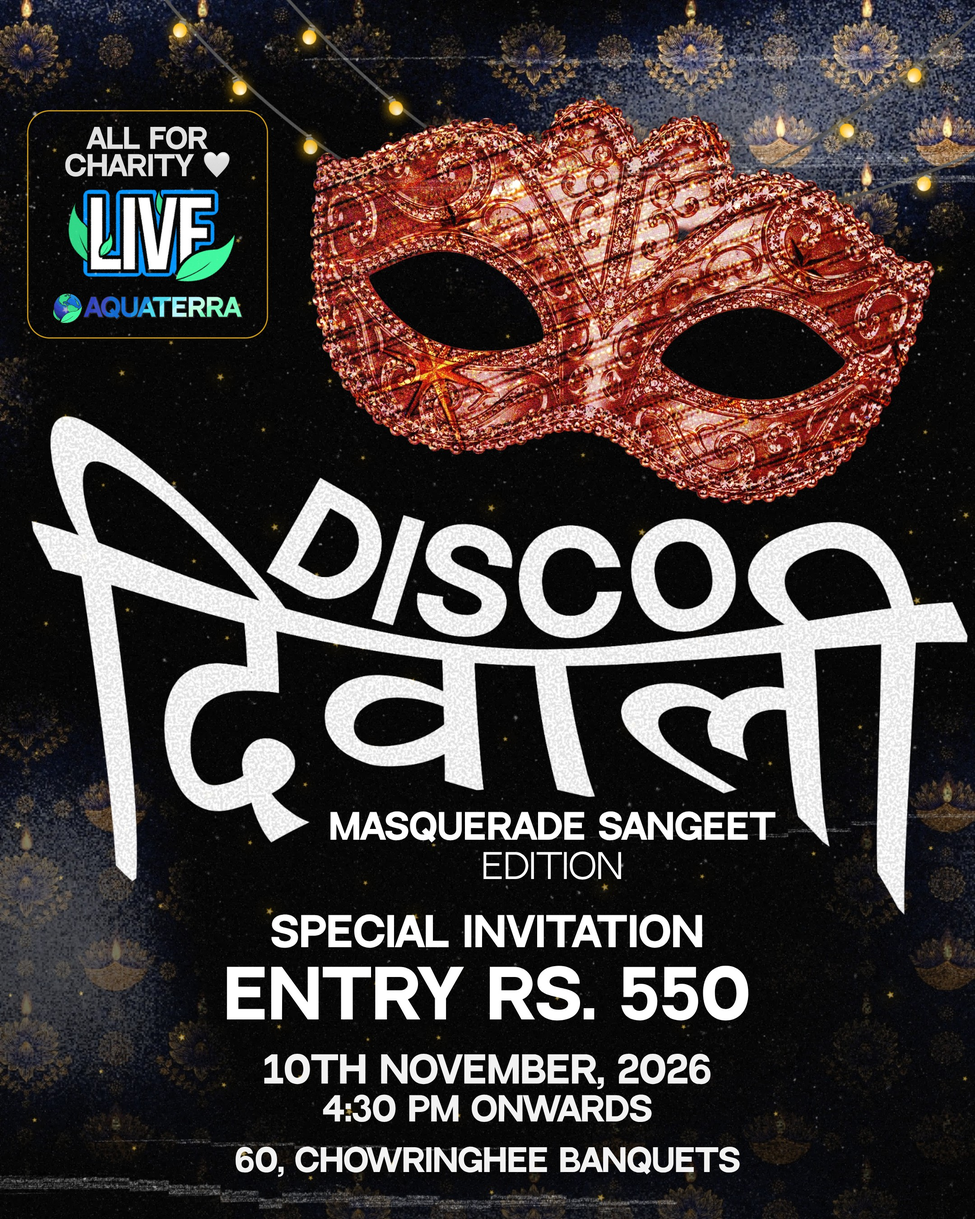
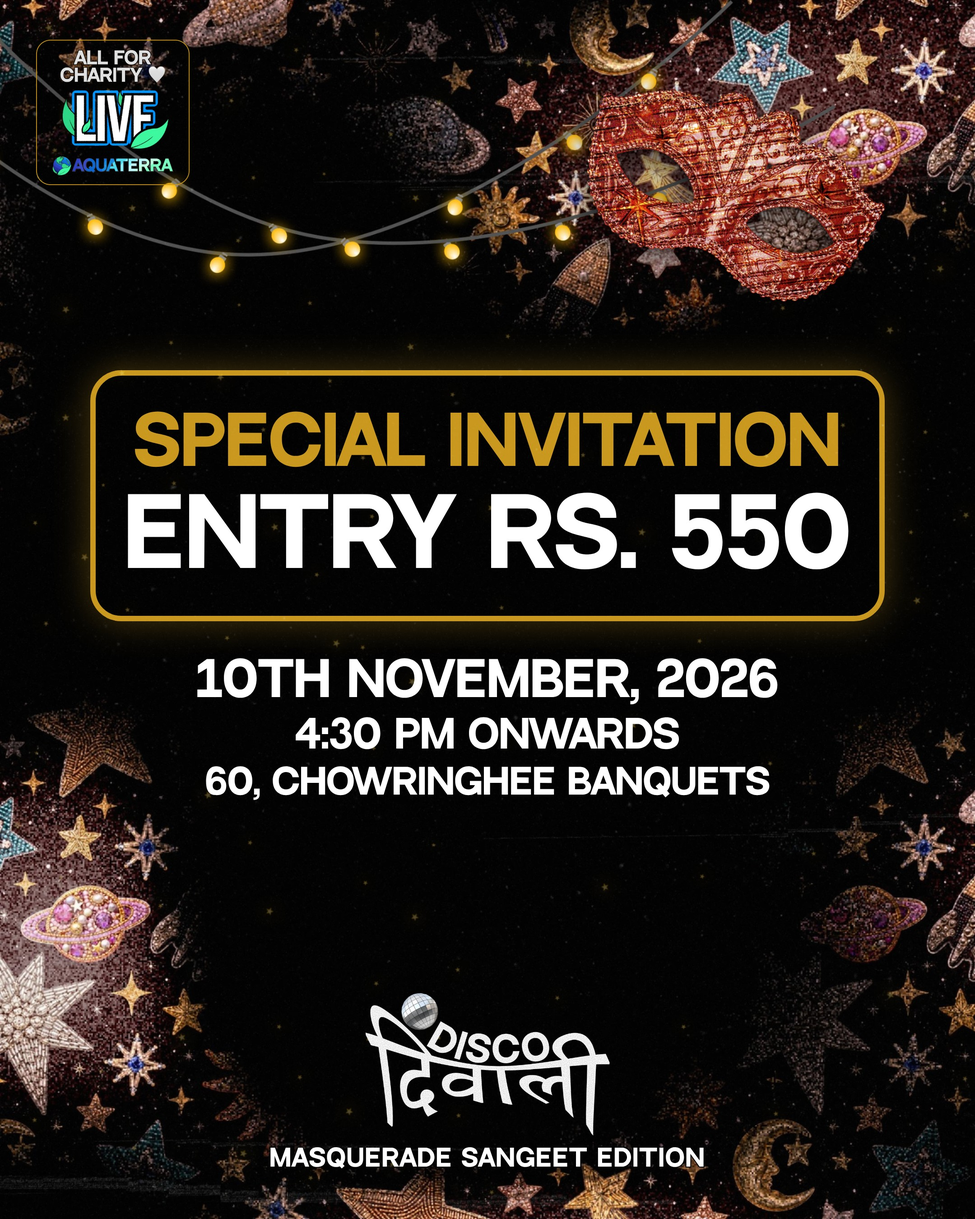
Special invitation poster v2: invitation + fee highlighted in a gold panel, Disco Diwali title shrunk to the footer
Claude-Session: https://claude.ai/code/session_01Hjb3YdETYzUX9KQBuy3LJ5

diff --git a/scratchpad/dd_invite2.py b/scratchpad/dd_invite2.py
@@ -1,0 +1,55 @@
+"""DISCO DIWALI "SPECIAL INVITATION" v2 (user, 2026-11-07: 'SPECIAL INVITATION and Rs.550 highlighted, reduce the Disco Diwali text and place it at the footer').
+The invitation line and the fee are the hero: a gold-framed panel, SPECIAL INVITATION in gold, ENTRY RS. 550 huge in white, both measured to fill the panel. The date, time and venue sit
+under the panel. The lockup (with ball) is shrunk to a footer mark with the edition line beneath it. Built on the Sign primitives (beaded celestial ground, string lights, LIVE badge,
+copper mask) at feed 1080x1350 and story 1080x1920 (top 200 and bottom 250 clear for Instagram's bars). Supplied facts only: 10th November 2026, 4:30 PM onwards, 60 Chowringhee
+Banquets, Rs. 550 entry. Run: PYTHONIOENCODING=utf-8 python scratchpad/dd_invite2.py -> out/discodiwali/invite2/{feed,story}.png"""
+import asyncio, os, sys
+sys.path.insert(0, os.path.dirname(os.path.abspath(__file__)))
+import dd_a3_event_signs as E   # noqa: E402
+dd, B, Sign, GOLD = E.dd, E.B, E.Sign, E.GOLD
+OUT = os.path.join(E.ROOT, "out", "discodiwali", "invite2")
+FEE = os.environ.get("FEE", "Entry Rs. 550")
+W = 1080
+
+
+async def fit(text, width, cap):
+    m = await B.measure_text([dict(text=text.upper(), font="d", size=100, weight=700)], W=W, H=1350)
+    return min(cap, int(100 * width / m[0]["text_w"]))
+
+
+async def build(H):
+    story = H > 1350
+    s = Sign(W, H)
+    top = 210 if story else 44
+    s.parts.append(f'<img data-tag="badge" src="{dd.uri("live_badge.png")}" style="position:absolute;left:40px;top:{top}px;width:170px;z-index:20">')
+    s.els.append(("badge", 40, top, 170, round(170 * 1005 / 1061)))
+    s.mask(610, top + 8, 400, 12)
+    pw = 880; px = (W - pw) // 2
+    f1 = await fit("Special invitation", pw - 90, 120); f2 = await fit(FEE, pw - 70, 230)
+    pad = 44; gap = 16
+    ph = pad + f1 + gap + f2 + pad
+    py = (700 if story else 410)
+    s.add("panel", px, py, pw, ph, f'<div style="height:{ph}px;border-radius:34px;border:6px solid {GOLD};box-sizing:border-box;background:rgba(0,0,0,.62);box-shadow:0 0 40px rgba(201,151,28,.35),0 16px 40px rgba(0,0,0,.6)"></div>', z=15, declare=False)
+    s.els.append(("panel", px, py, pw, ph))
+    y = s.text("invite", "Special invitation", py + pad, f1, color=GOLD, x=px, w=pw)
+    y = s.text("fee", FEE, y + gap, f2, x=px, w=pw, stroke=5)
+    iy = py + ph + (60 if story else 40)
+    y = s.text("when", "10th November, 2026", iy, 56 if story else 52, stroke=3) + 14
+    y = s.text("clock", "4:30 PM onwards", y, 46 if story else 42, stroke=3) + 12
+    y = s.text("venue", "60, Chowringhee Banquets", y, 42 if story else 38, stroke=3)
+    vw = 270; ly = (1440 if story else 1100)
+    end = s.lockup(W // 2, ly, vw)
+    s.text("edition", E.EDITION, end + 14, 26, stroke=2, ls=.04)
+    return s, (y, ly)
+
+
+async def main():
+    os.makedirs(OUT, exist_ok=True)
+    async with B.session():
+        for name, H in (("feed", 1350), ("story", 1920)):
+            s, (info_end, ly) = await build(H)
+            print(f"[{name}] info ends y={info_end}, lockup starts y={ly}")
+            await B.render(B.page(W, H, "#000", "".join(s.parts), grain=False), os.path.join(OUT, f"{name}.png"), W, H, elements=s.els, bleed_tags=("plate",), crop_tags=("plate",),
+                           page_bg="#000", containers=("panel",), text_pairs=[("text", "#fff", "#000", 40, True), ("gold", GOLD, "#000", 80, True)])
+    print("done ->", OUT)
+asyncio.run(main())
